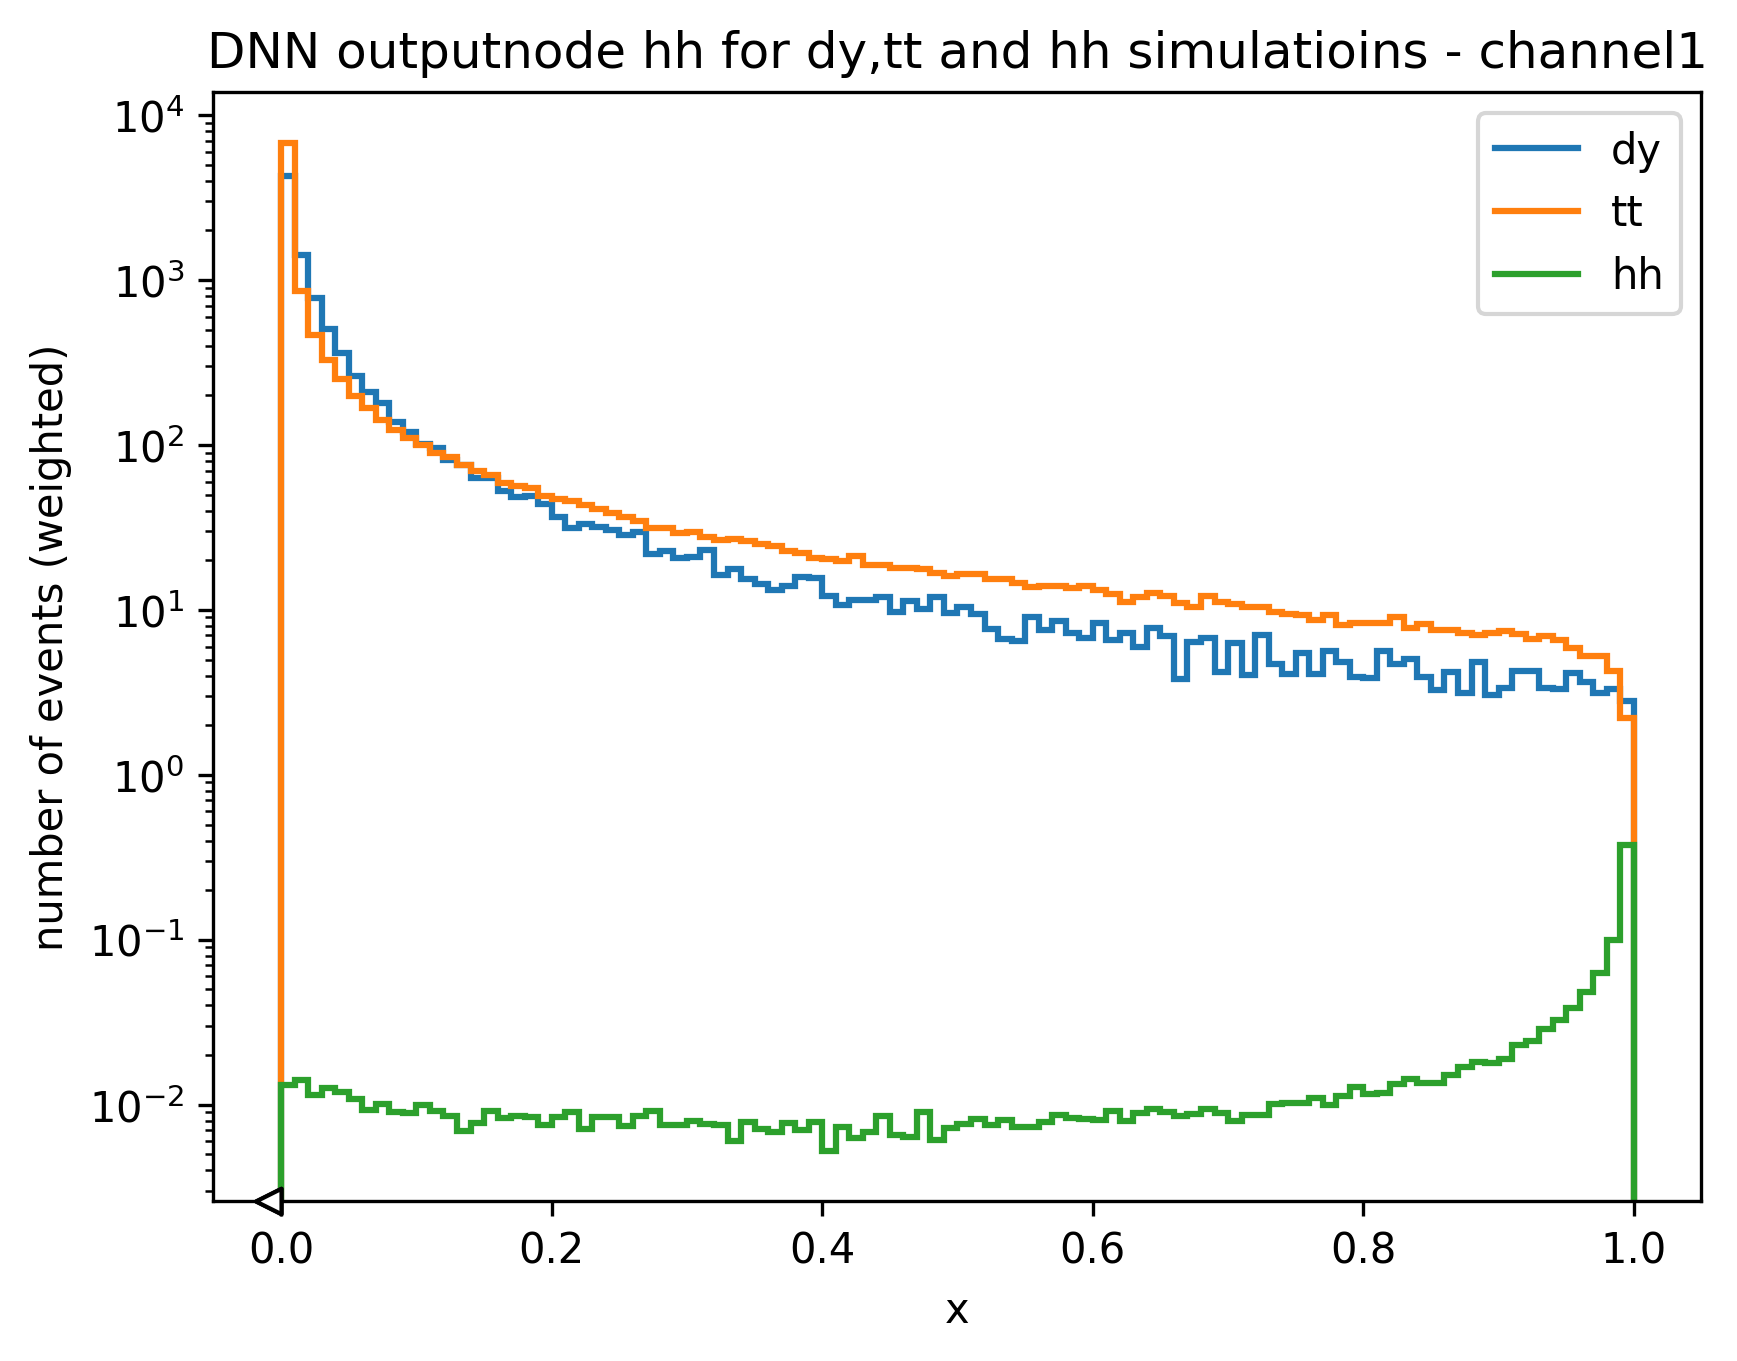
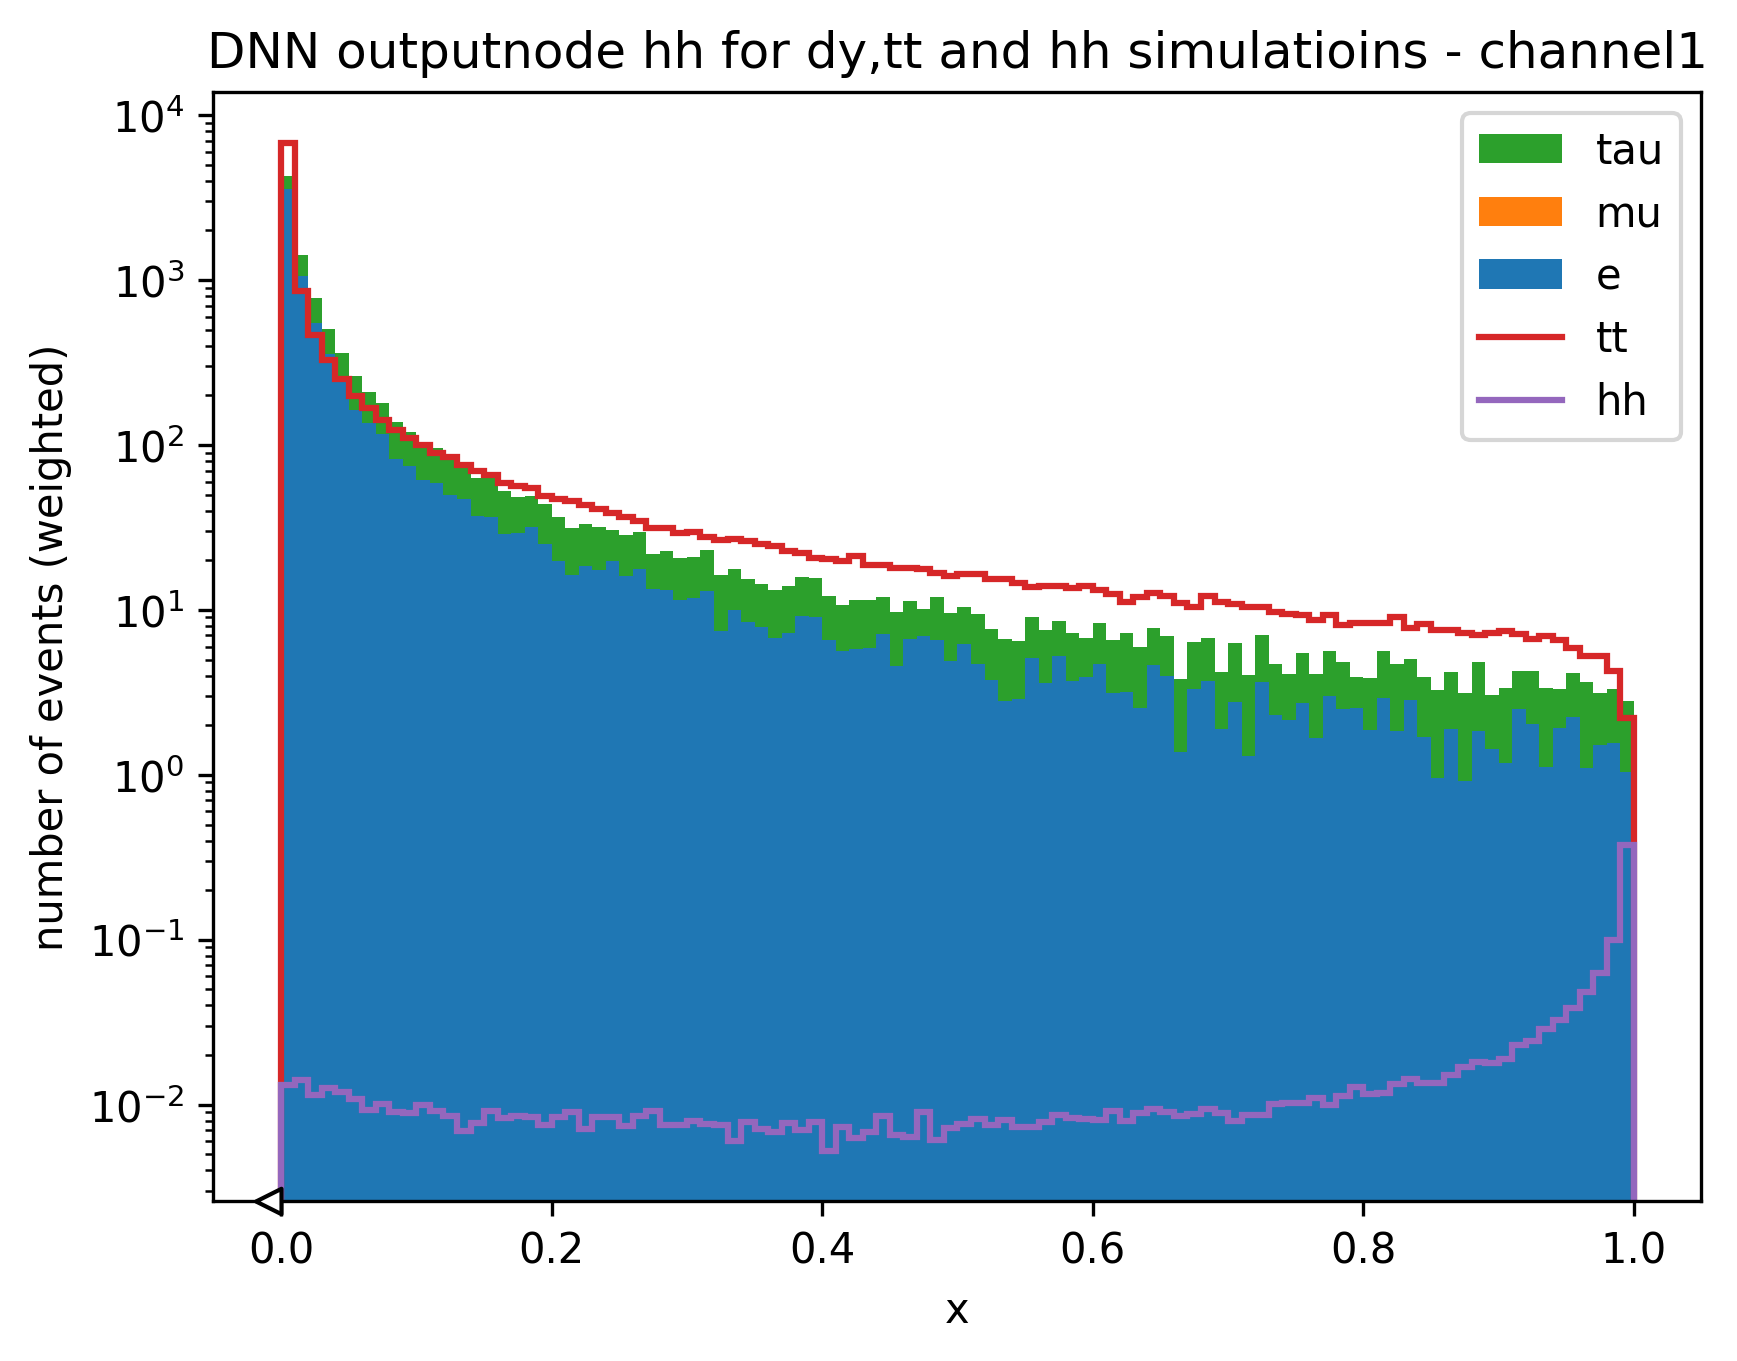
segmented DY into e,mu,tau

diff --git a/plot_DNN_output.py b/plot_DNN_output.py
@@ -8,34 +8,31 @@ events_dy = ak.from_parquet("/data/dust/user/wolfmor/hh2bbtautau/vincent/dy_22pr
 events_tt = ak.from_parquet("/data/dust/user/wolfmor/hh2bbtautau/vincent/tt_22pre_v14.parquet")  # tt simulation data
 events_hh = ak.from_parquet("/data/dust/user/wolfmor/hh2bbtautau/vincent/hh_22pre_v14.parquet")  # hh simulation data
 
-
-dy = Hist(hist.axis.Regular(bins=100, start=0, stop=1, name="x"))
+#Histogramme definieren, 2-D für dy wegen Unterteilung
+dy = Hist(
+    hist.axis.StrCategory([], name="Zerfallskanal", growth=True),  #diese Achse wird später gestacked
+    hist.axis.Regular(bins=100, start=0, stop=1, name="x")
+)
 tt = Hist(hist.axis.Regular(bins=100, start=0, stop=1, name="x"))
 hh = Hist(hist.axis.Regular(bins=100, start=0, stop=1, name="x"))
 
 
-#masken für channel-ID erstellen:
-id_1dy = (events_dy.channel_id == 1)
-id_2dy = (events_dy.channel_id == 2)
-id_3dy = (events_dy.channel_id == 3)
-
-id_1tt = (events_tt.channel_id == 1)
-id_2tt = (events_tt.channel_id == 2)
-id_3tt = (events_tt.channel_id == 3)
-
-id_1hh = (events_hh.channel_id == 1)
-id_2hh = (events_hh.channel_id == 2)
-id_3hh = (events_hh.channel_id == 3)
-
-
+#Histogramme nach channel aufteilen, fillen (für dy nach Zerfallskanal aufteilen + stacken), plotten.
 for i in [1,2,3]:
-    dy.fill(events_dy.run3_dnn_moe_hh[events_dy.channel_id == i],weight=events_dy.event_weight[events_dy.channel_id == i])
+    dy.fill(x=events_dy.run3_dnn_moe_hh[(events_dy.channel_id == i) & (events_dy.gen_ll_pdgid == 11)],Zerfallskanal="e", weight=events_dy.event_weight[(events_dy.channel_id == i) & (events_dy.gen_ll_pdgid == 11)])    #maske für channel (und bei dy Zerfallskanal) in eckigen Klammern
+    dy.fill(x=events_dy.run3_dnn_moe_hh[(events_dy.channel_id == i) & (events_dy.gen_ll_pdgid == 13)],Zerfallskanal="mu", weight=events_dy.event_weight[(events_dy.channel_id == i) & (events_dy.gen_ll_pdgid == 13)])
+    dy.fill(x=events_dy.run3_dnn_moe_hh[(events_dy.channel_id == i) & (events_dy.gen_ll_pdgid == 15)],Zerfallskanal="tau", weight=events_dy.event_weight[(events_dy.channel_id == i) & (events_dy.gen_ll_pdgid == 15)])
+
     tt.fill(events_tt.run3_dnn_moe_hh[events_tt.channel_id == i],weight=events_tt.event_weight[events_tt.channel_id == i])
     hh.fill(events_hh.run3_dnn_moe_hh[events_hh.channel_id == i],weight=events_hh.event_weight[events_hh.channel_id == i])
 
     plt.yscale('log')    #Achse logarithmisch skalieren 
 
-    dy.plot(label="dy")
+    # Stack-Plot erstellen
+    stack = dy.stack("Zerfallskanal")
+    stack.plot(stack=True, histtype="fill") # 'stack=True' ist entscheidend!
+
+    #dy.plot(label="dy")
     tt.plot(label="tt")
     hh.plot(label="hh")
 
@@ -44,3 +41,10 @@ for i in [1,2,3]:
     plt.title(f"DNN outputnode hh for dy,tt and hh simulatioins - channel{i}")
     plt.savefig(f"plots/hist_hhnode_channel{i}.png", dpi=300, bbox_inches='tight')
     plt.figure()
+
+
+
+    #gen_ll_pdgid unterteilt die dy events in die tatsächlichen zerfallskanäle(?)
+    #11=e 13=mu 15=tau
+    #stack
+    #dy in ee mu,mu und tt unterteilen
